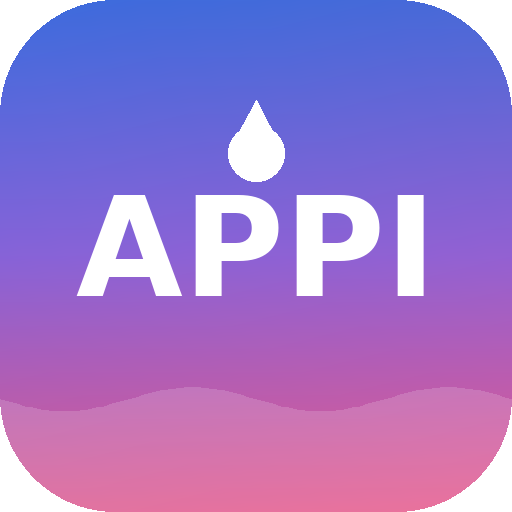
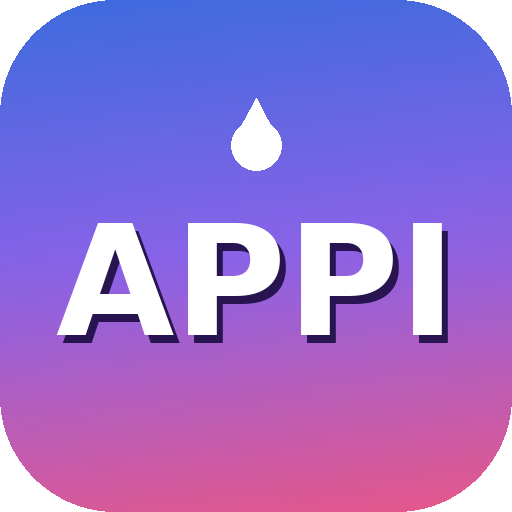
v236 El rosa de siempre, redondeado y legible
- Icono con el gradiente rosa/violeta original, puntas redondeadas,
  APPI grande con sombra suave y gotita; maskable en zona segura.
- Splash en violeta profundo #1b1038 para que el rosa apoye y brille.
- 70/70 tests.

diff --git a/index.html b/index.html
@@ -26,7 +26,7 @@ window.openHistorico=function(){
 <meta name="apple-mobile-web-app-status-bar-style" content="default" />
 <meta name="apple-mobile-web-app-title" content="APPI" />
 <meta name="mobile-web-app-capable" content="yes" />
-<meta name="theme-color" content="#0e2a60" />
+<meta name="theme-color" content="#1b1038" />
 <title>APPI</title>
 <link rel="icon" href="./icon-192.png" />
 <link rel="apple-touch-icon" href="./apple-touch-icon.png" />
@@ -3536,7 +3536,7 @@ body.dark #bootScreen{background:#101322}
     <button class="ds-btn" data-ds="view-grabadora" onclick="openGrabadora()"><span>🎙</span> Grabadora</button>
     <button class="ds-btn" data-ds="view-notas" onclick="showView('view-notas')"><span>📝</span> Notas Keep</button>
   </nav>
-  <div class="ds-foot">APPI · v235 · Splash de marca</div>
+  <div class="ds-foot">APPI · v236 · El rosa de siempre</div>
 </aside>
 <!-- Botón flotante para reabrir la barra (cuando está oculta) - oculto, reemplazado por nuevo -->
 <button class="ds-reopen" style="display:none !important" id="dsReopenBtn" onclick="toggleSidebar()" title="Abrir barra lateral" aria-label="Abrir barra lateral">☰</button>
@@ -9574,7 +9574,7 @@ document.getElementById('importInput').onchange = (e)=>{
   const applyTheme = (dark)=>{
     document.body.classList.toggle('dark', dark);
     const meta = document.querySelector('meta[name="theme-color"]');
-    if(meta) meta.setAttribute('content', dark ? '#0f1424' : '#0e2a60');
+    if(meta) meta.setAttribute('content', dark ? '#0f1424' : '#1b1038');
     if(currentRueda && document.getElementById('view-wheel').classList.contains('active')) renderWheel();
   };
   applyTheme(localStorage.getItem('themeDark') === '1');

diff --git a/service-worker.js b/service-worker.js
@@ -1,4 +1,4 @@
-const CACHE_NAME = 'appi-v235-splash-de-marca';
+const CACHE_NAME = 'appi-v236-rosa-redondeado';
 const CACHE_PREFIX = 'appi-';
 const APP_SHELL = [
   './',

diff --git a/CAMBIOS_v236.md b/CAMBIOS_v236.md
@@ -1,0 +1,10 @@
+# APPI v236 · El rosa de siempre, redondeado
+
+El ícono vuelve al gradiente rosa/violeta que ya era de la marca, pero con
+las puntas redondeadas y el "APPI" bien grande y legible (con una sombra
+suave para que lea sobre el gradiente), más la gotita arriba.
+
+- Versión redondeada transparente para la pantalla de inicio.
+- Versión maskable llena para el splash: el teléfono le aplica su máscara
+  redondeada y el texto queda en zona segura.
+- Splash en violeta profundo (#1b1038) para que el rosa apoye y brille.

diff --git a/README.md b/README.md
@@ -4,7 +4,7 @@ PWA local-first para planificación mensual, presupuesto, equipo, garantías, co
 
 ## Estado actual
 
-- Versión: **v235 · Splash de marca**.
+- Versión: **v236 · El rosa de siempre, redondeado**.
 - Publicación: [https://somospopups.github.io/appi/](https://somospopups.github.io/appi/)
 - Acceso por número de distribuidor y contraseña.
 - Acceso administrador POPUPS mediante el candado, sin DIP ni número de distribuidor.
